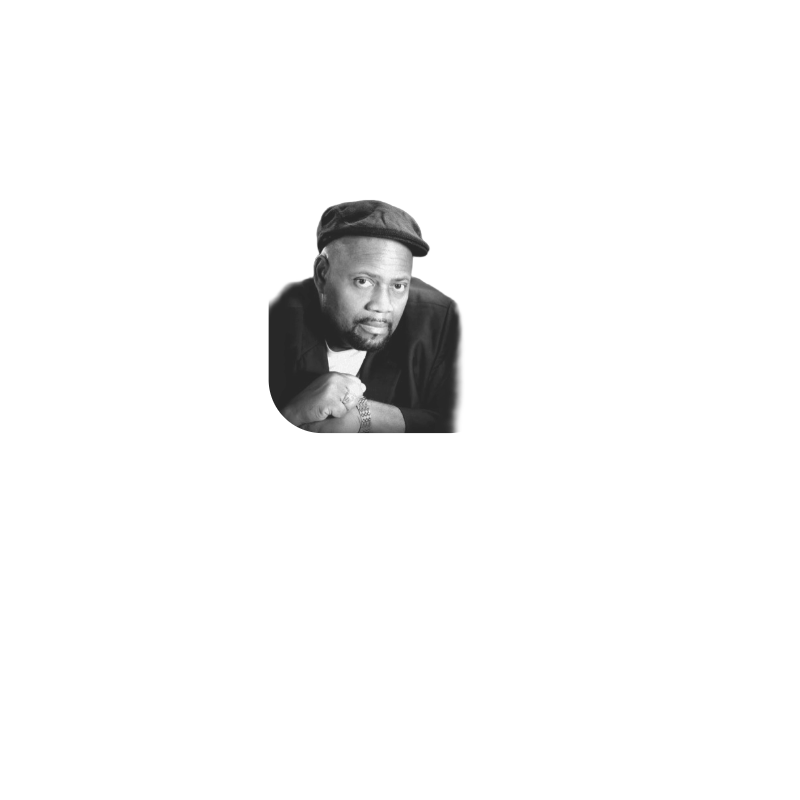
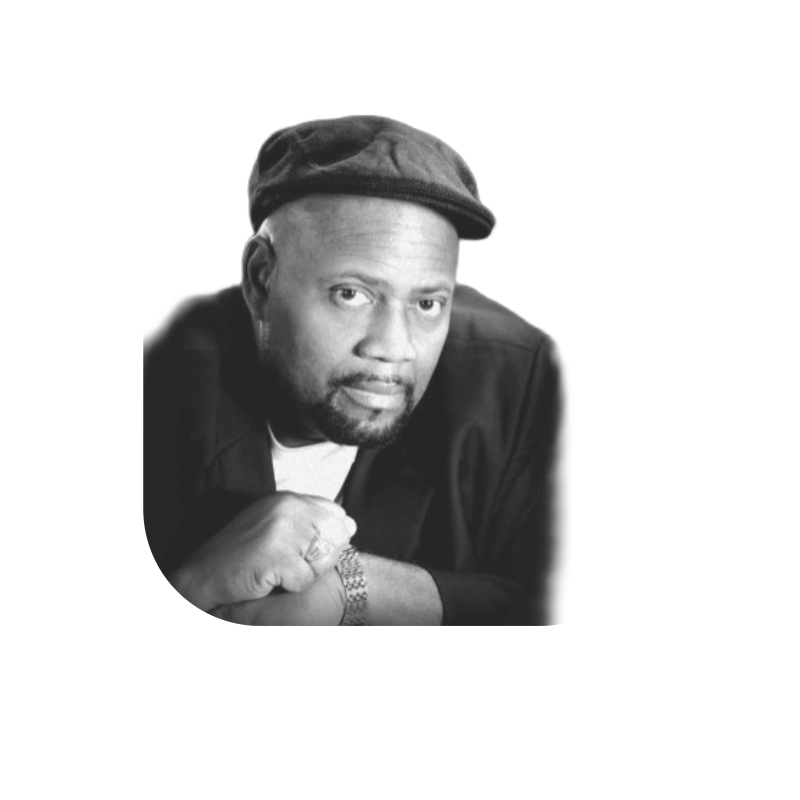
Home: new transparent hero PNG; remove blend hack; larger display
Made-with: Cursor

Changed region(s): [[0.1562, 0.125, 0.7188, 0.7812]]

diff --git a/web/src/pages/Home.tsx b/web/src/pages/Home.tsx
@@ -51,13 +51,12 @@ export function Home() {
               </div>
             </div>
             <div className="flex shrink-0 justify-center lg:justify-end lg:pt-2">
-              {/* mix-blend-multiply: knocks out flat white in the PNG so the page shows through */}
               <img
                 src={heroPortraitSrc}
                 alt="Charles Wilson"
-                width={600}
-                height={750}
-                className="h-auto w-full max-w-[280px] object-contain object-center mix-blend-multiply brightness-[1.08] contrast-[1.06] sm:max-w-[340px] md:max-w-[400px] lg:max-w-[380px]"
+                width={800}
+                height={1000}
+                className="h-auto w-full max-w-[min(92vw,340px)] object-contain object-center [filter:drop-shadow(0_16px_40px_rgba(0,0,0,0.5))] sm:max-w-[400px] md:max-w-[460px] lg:max-w-[440px]"
                 loading="eager"
                 decoding="async"
               />
